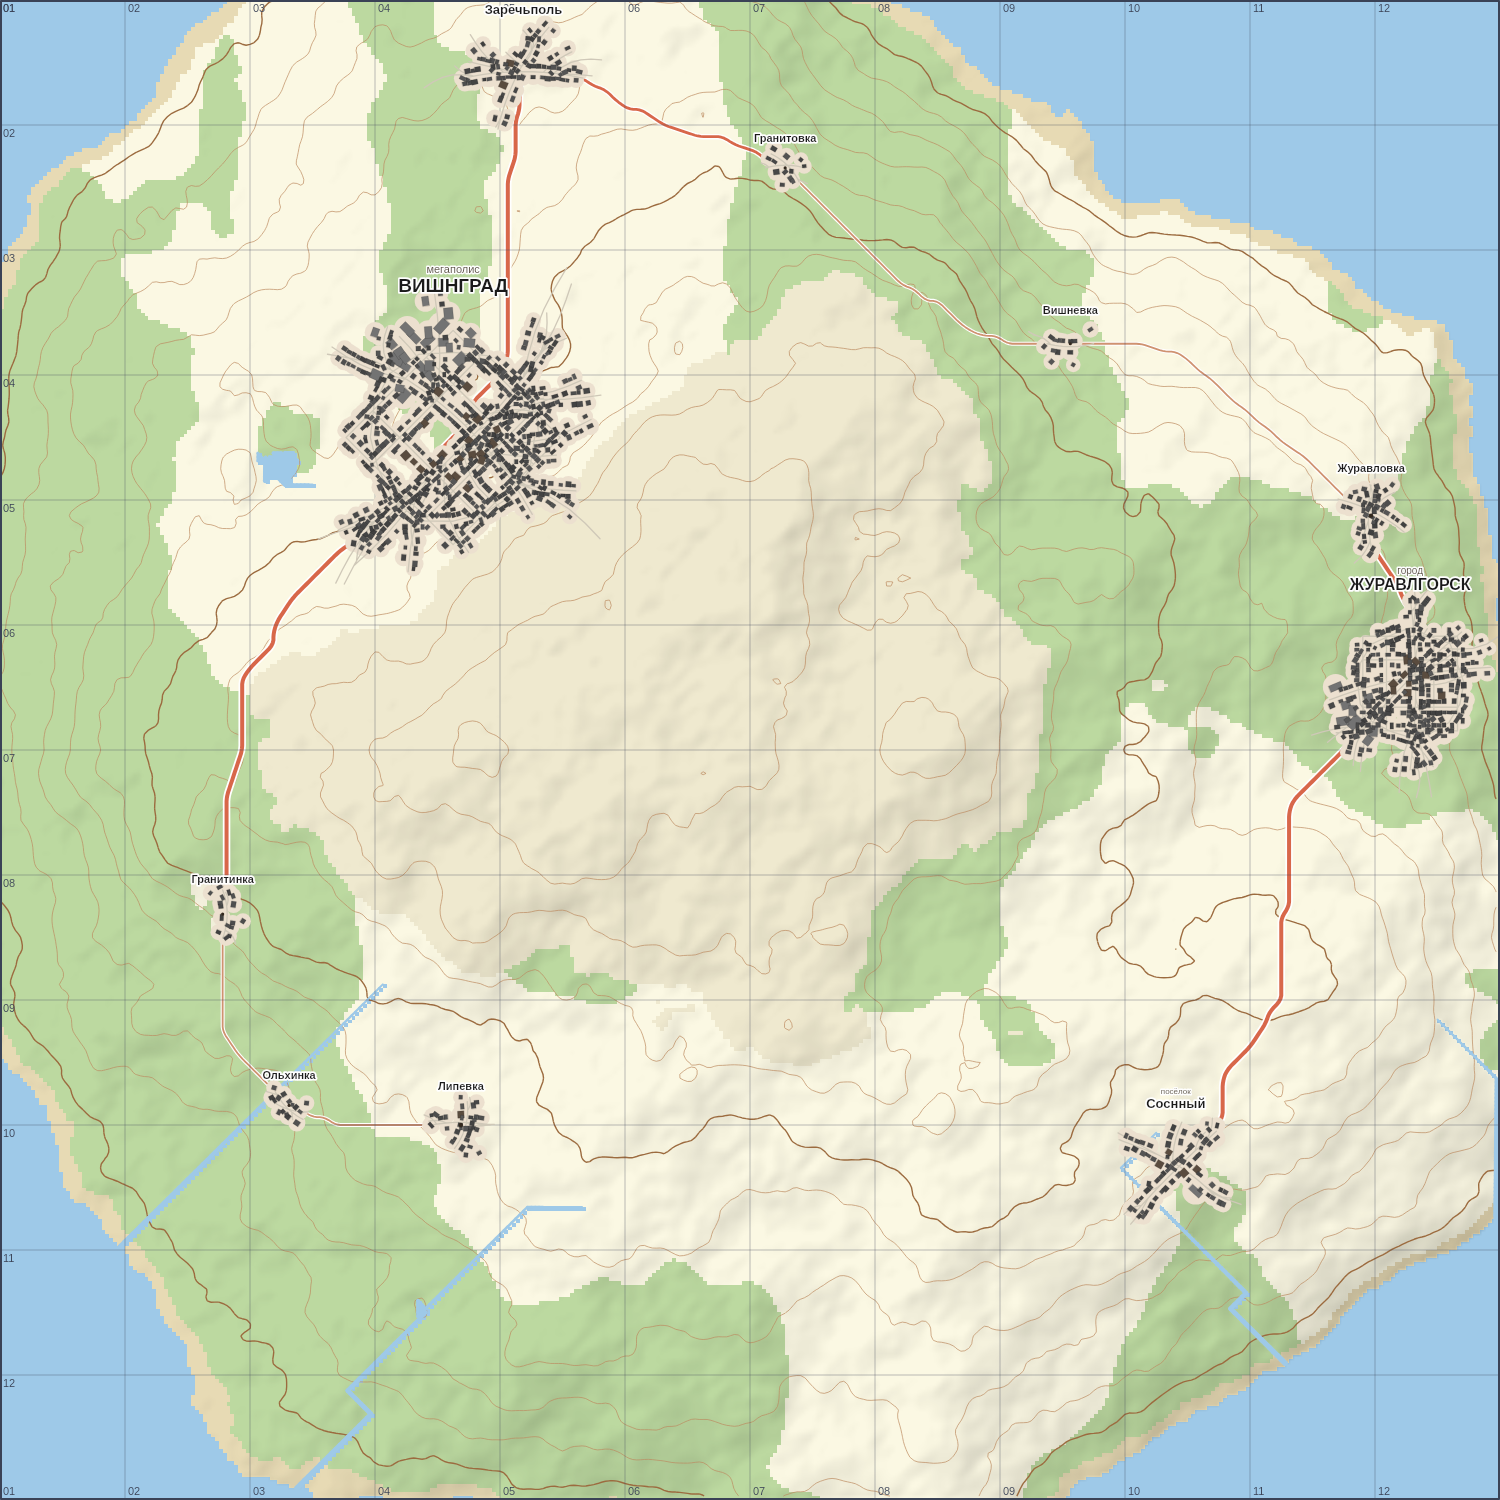
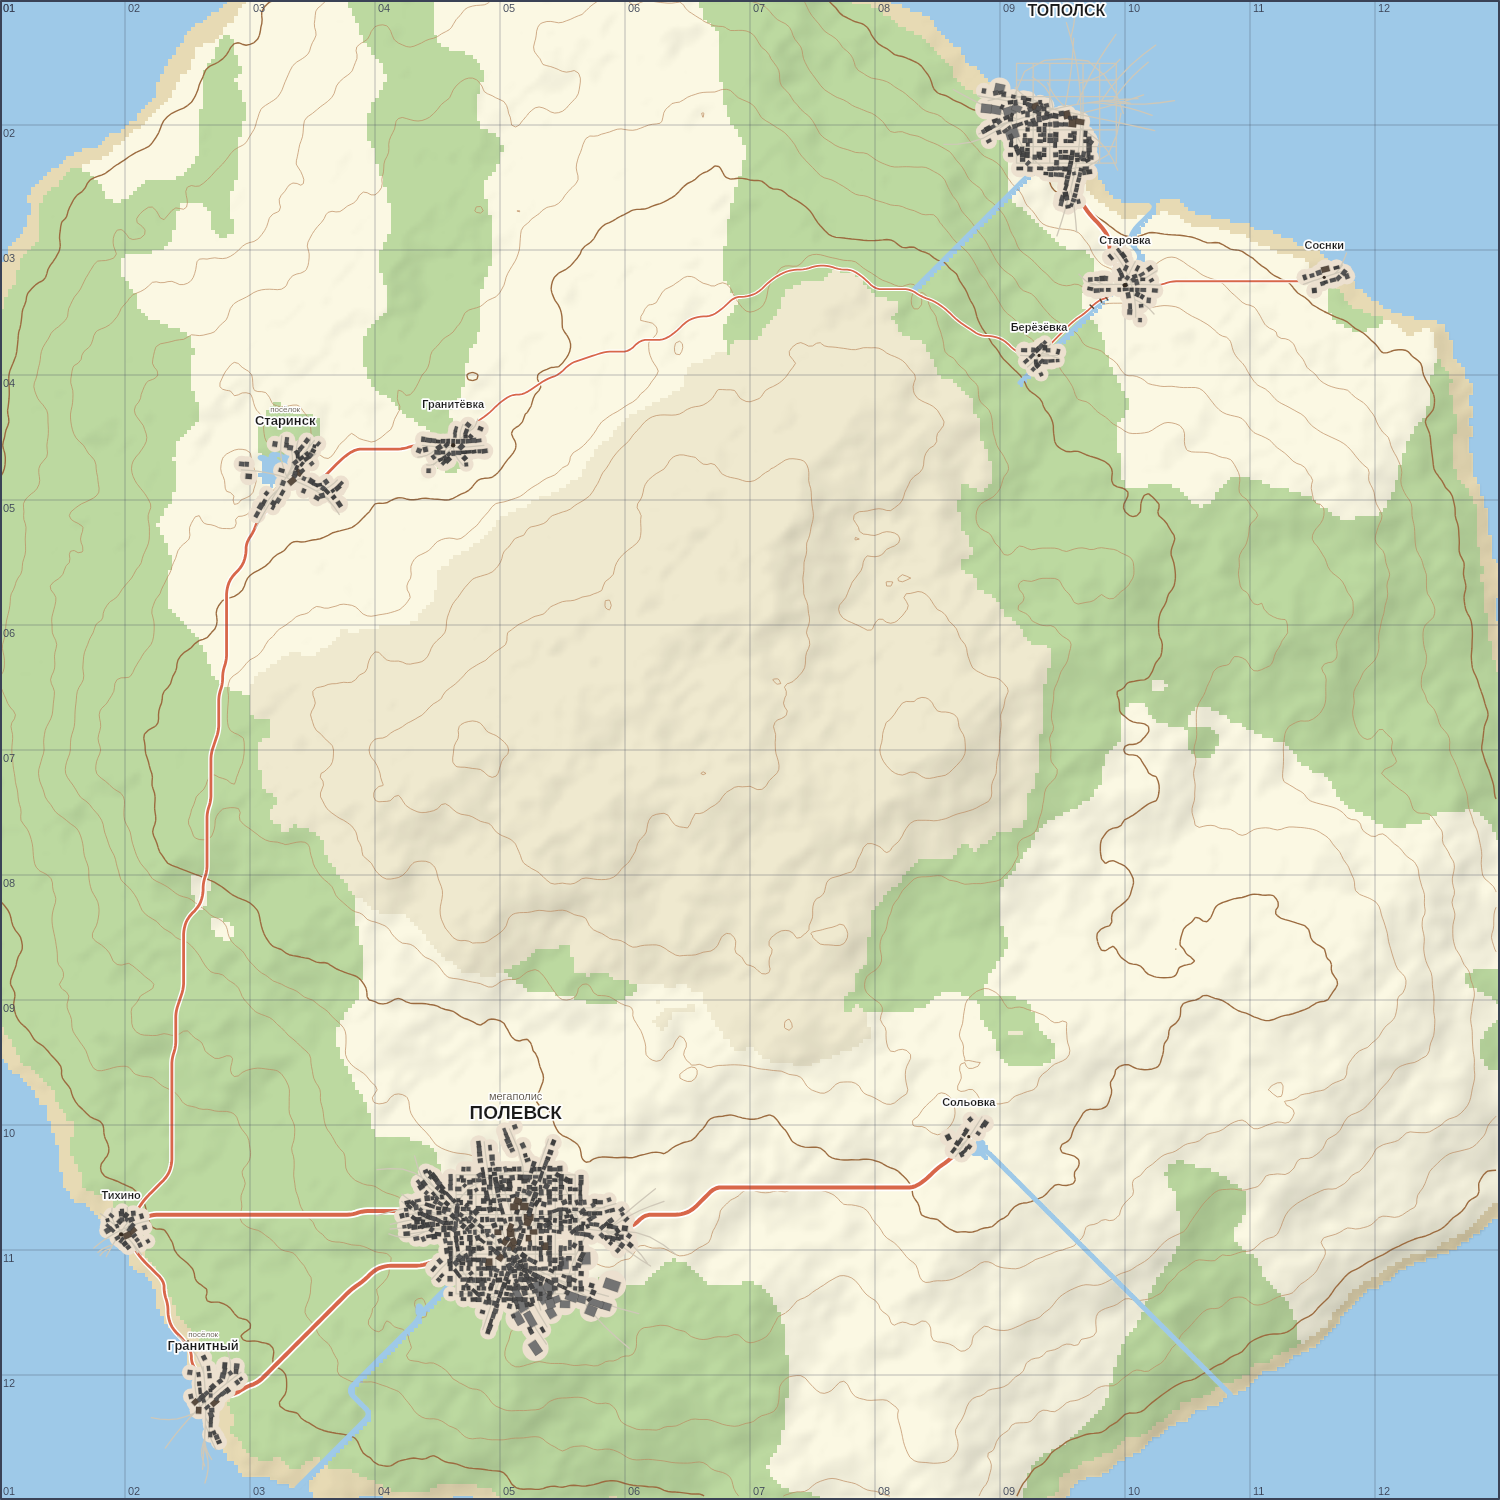
Реализм карты: естественные реки, дороги ≠ горизонтали, иерархия расселения
По замечаниям к виду «как настоящая карта»:

Реки:
- русла сглаживаются (плавные изгибы вместо рваной ломаной и резких углов);
- река всегда заканчивается в воде: впадает в море/другую реку (приток) либо
  образует в конце небольшое озеро — больше не обрывается посреди суши;
- рисуется одной плавной линией нужной ширины — без «стрелок» на стыках;
- исток только на возвышенностях, русло прорезается непрерывным каналом.

Дороги:
- все классы рисуются единым «дорожным» красным цветом (различие — по ширине),
  чтобы местные дороги не путались с коричневыми горизонталями.

Расселение:
- пункты размещаются от крупных к мелким с интервалом, пропорциональным их
  размеру: мегаполисы и города больше не сливаются в одно пятно, а сёла и
  деревни заполняют промежутки (естественная иерархия расселения).

Claude-Session: https://claude.ai/code/session_013g6C5sYmZd55dF6BbemY1p

diff --git a/js/generator.js b/js/generator.js
@@ -180,7 +180,6 @@ class MapGenerator {
 
     // 5) Населённые пункты и их виды (деревня…мегаполис)
     const towns = this._placeTowns(height, slope, type);
-    this._assignTiers(towns);
 
     // 6) Сеть дорог с учётом рельефа (поиск пути A* по «стоимости» местности)
     const cost = this._buildCostField(height, slope, type);
@@ -268,24 +267,38 @@ class MapGenerator {
     const size = this.size;
     const rivers = [];
     const target = Math.round(3 + size / 200); // примерное число рек
-    const maxTries = target * 60;
+    const maxTries = target * 80;
+    const stride = Math.max(2, Math.round(size / 140));
     let tries = 0;
     while (rivers.length < target && tries < maxTries) {
       tries++;
       const sx = Math.floor(this._rand() * size);
       const sy = Math.floor(this._rand() * size);
-      if (height[sy * size + sx] < 0.6) continue; // истоки — только высоко
-      const path = this._traceRiver(height, type, sx, sy);
-      if (path.length < Math.max(10, size * 0.06)) continue; // короткие отбрасываем
-      for (const [x, y] of path) {
-        type[y * size + x] = TERRAIN.WATER; // прорезаем русло
+      if (height[sy * size + sx] < 0.66) continue; // истоки — только на возвышенностях
+      const traced = this._traceRiver(height, type, sx, sy);
+      if (traced.path.length < Math.max(12, size * 0.07)) continue; // короткие отбрасываем
+
+      // Река должна заканчиваться в воде. Если стекла во впадину, а не в море —
+      // образуем там небольшое озеро, чтобы русло не обрывалось «в никуда».
+      if (!traced.reachedWater) {
+        this._makeLake(type, traced.path[traced.path.length - 1], size);
       }
+
+      // Сглаживаем русло: плавные изгибы вместо рваной ломаной (как у настоящих
+      // рек), и прорезаем непрерывный канал водой вдоль сглаженного пути.
+      const path = this._smoothPath(this._decimate(traced.path, stride));
+      this._carveAlong(type, path, size);
       rivers.push(path);
     }
     return rivers;
   }
 
-  /* Прослеживает одно русло «стеканием» вниз по склону из точки (x, y). */
+  /*
+   * Прослеживает одно русло «стеканием» вниз по склону из точки (x, y).
+   * Возвращает { path, reachedWater }: reachedWater = true, если река дошла до
+   * воды (моря, озера или другой реки — тогда получается приток), иначе она
+   * остановилась во впадине и в этом месте нужно образовать озеро.
+   */
   _traceRiver(height, type, x, y) {
     const size = this.size;
     const path = [[x, y]];
@@ -294,10 +307,11 @@ class MapGenerator {
     let py = y;
     let dirx = 0;
     let diry = 0;
-    const maxLen = Math.floor(size * 1.5);
+    let reachedWater = false;
+    const maxLen = Math.floor(size * 1.6);
     for (let step = 0; step < maxLen; step++) {
-      if (step > 0 && type[py * size + px] === TERRAIN.WATER) break; // впали в воду
-      if (height[py * size + px] < this.seaLevel) break;
+      if (step > 0 && type[py * size + px] === TERRAIN.WATER) { reachedWater = true; break; }
+      if (height[py * size + px] < this.seaLevel) { reachedWater = true; break; }
 
       // Ищем самого «низкого» соседа; небольшая инерция держит русло прямее.
       let bx = -1;
@@ -316,7 +330,7 @@ class MapGenerator {
         }
       }
       if (bx < 0) break; // тупик (всё вокруг уже посещено)
-      if (height[by * size + bx] > height[py * size + px] + 0.025) break; // впадина — конец реки
+      if (height[by * size + bx] > height[py * size + px] + 0.02) break; // впадина — конец
 
       dirx = Math.sign(bx - px);
       diry = Math.sign(by - py);
@@ -325,7 +339,54 @@ class MapGenerator {
       visited.add(py * size + px);
       path.push([px, py]);
     }
-    return path;
+    return { path, reachedWater };
+  }
+
+  /* Небольшое озеро в конце реки, если она не дошла до моря (сток во впадину). */
+  _makeLake(type, end, size) {
+    const ex = end[0];
+    const ey = end[1];
+    const r = 2 + Math.floor(this._rand() * 2); // радиус 2..3 клетки
+    for (let dy = -r; dy <= r; dy++) {
+      for (let dx = -r; dx <= r; dx++) {
+        if (dx * dx + dy * dy > r * r) continue;
+        const nx = ex + dx;
+        const ny = ey + dy;
+        if (nx < 0 || ny < 0 || nx >= size || ny >= size) continue;
+        type[ny * size + nx] = TERRAIN.WATER;
+      }
+    }
+  }
+
+  /* Прорезает непрерывный канал воды вдоль (сглаженного) пути реки. */
+  _carveAlong(type, path, size) {
+    for (let i = 0; i < path.length - 1; i++) {
+      this._lineCells(
+        type,
+        Math.round(path[i][0]), Math.round(path[i][1]),
+        Math.round(path[i + 1][0]), Math.round(path[i + 1][1]),
+        size,
+      );
+    }
+  }
+
+  /* Отмечает водой клетки на отрезке (алгоритм Брезенхэма) — без разрывов. */
+  _lineCells(type, x0, y0, x1, y1, size) {
+    const dx = Math.abs(x1 - x0);
+    const dy = Math.abs(y1 - y0);
+    const sx = x0 < x1 ? 1 : -1;
+    const sy = y0 < y1 ? 1 : -1;
+    let err = dx - dy;
+    let x = x0;
+    let y = y0;
+    let guard = 0;
+    while (guard++ < 4 * size) {
+      if (x >= 0 && y >= 0 && x < size && y < size) type[y * size + x] = TERRAIN.WATER;
+      if (x === x1 && y === y1) break;
+      const e2 = 2 * err;
+      if (e2 > -dy) { err -= dy; x += sx; }
+      if (e2 < dx) { err += dx; y += sy; }
+    }
   }
 
   /*
@@ -574,41 +635,99 @@ class MapGenerator {
    */
   _placeTowns(height, slope, type) {
     const size = this.size;
-    const towns = [];
-    const minDist = size / (this.townCount + 1);
-    const minDist2 = minDist * minDist;
     const margin = Math.round(size * 0.045); // не селим у самой кромки карты
 
-    // Два прохода: сначала с порогом пригодности (отбираем хорошие места),
-    // затем, если не добрали, — без порога, лишь бы на суше и не вплотную.
-    for (const strict of [true, false]) {
-      let attempts = 0;
-      const maxAttempts = this.townCount * 300;
-      while (towns.length < this.townCount && attempts < maxAttempts) {
-        attempts++;
-        const x = Math.floor(this._rand() * size);
-        const y = Math.floor(this._rand() * size);
-        if (x < margin || y < margin || x >= size - margin || y >= size - margin) continue;
-        const i = y * size + x;
-        const t = type[i];
-        if (t === TERRAIN.WATER || t === TERRAIN.HILL) continue;
-        if (strict && slope[i] > 0.05) continue; // на круче не строим
+    // Сколько пунктов какого вида (пирамида: мало крупных, много мелких).
+    const counts = this._tierCounts(this.townCount);
 
-        let tooClose = false;
-        for (const tw of towns) {
-          const dx = tw.x - x;
-          const dy = tw.y - y;
-          if (dx * dx + dy * dy < minDist2) { tooClose = true; break; }
-        }
-        if (tooClose) continue;
-
-        const suit = this._suitability(height, slope, type, x, y);
-        if (strict && suit < 0.3) continue;
-
-        towns.push({ x, y, suit });
+    // Размещаем ОТ КРУПНЫХ К МЕЛКИМ: сначала города на лучших местах и с большим
+    // интервалом друг от друга (чтобы мегаполисы не сливались в одно пятно),
+    // затем сёла и деревни заполняют промежутки. Это и даёт «иерархию» расселения.
+    const towns = [];
+    for (let tier = SETTLEMENT_TIERS.length - 1; tier >= 0; tier--) {
+      const tierRadius = SETTLEMENT_TIERS[tier].radiusFrac * size;
+      for (let k = 0; k < counts[tier]; k++) {
+        const town = this._placeOne(height, slope, type, towns, tier, tierRadius, margin);
+        if (town) towns.push(town);
       }
     }
     return towns;
+  }
+
+  /* Раскладка числа пунктов по видам (деревня…мегаполис), сумма = N. */
+  _tierCounts(N) {
+    const c = [0, 0, 0, 0, 0];
+    if (N <= 0) return c;
+    if (N === 1) { c[2] = 1; return c; }          // один пункт — пусть будет посёлок
+    if (N === 2) { c[1] = 1; c[2] = 1; return c; } // село + посёлок
+    let rem = N;
+    const take = (amt) => { amt = Math.max(0, Math.min(rem, amt)); rem -= amt; return amt; };
+    c[4] = take(N >= 8 ? 1 : 0);                    // мегаполис — только на крупных картах
+    c[3] = take(Math.max(1, Math.round(N * 0.13))); // города
+    c[2] = take(Math.max(1, Math.round(N * 0.20))); // посёлки
+    c[1] = take(Math.round(N * 0.34));              // сёла
+    c[0] = take(rem);                               // деревни — всё остальное
+    return c;
+  }
+
+  /*
+   * Подбирает место для одного пункта заданного вида: из множества случайных
+   * кандидатов берём самый пригодный (ровно, у воды, не на круче), соблюдая
+   * интервал до уже размещённых — тем больший, чем крупнее оба пункта.
+   * Если подходящего места нет — мягкий запасной проход (лишь бы на суше).
+   */
+  _placeOne(height, slope, type, existing, tier, tierRadius, margin) {
+    const size = this.size;
+    const span = size - 2 * margin;
+    const def = SETTLEMENT_TIERS[tier];
+
+    const spaced = (x, y, factor) => {
+      for (const tw of existing) {
+        const need = (tierRadius + tw._radiusCells) * factor + size * 0.02;
+        const dx = tw.x - x;
+        const dy = tw.y - y;
+        if (dx * dx + dy * dy < need * need) return false;
+      }
+      return true;
+    };
+
+    let best = null;
+    let bestScore = -Infinity;
+    const samples = 60 + tier * 45; // для крупных перебираем больше вариантов
+    for (let s = 0; s < samples; s++) {
+      const x = margin + Math.floor(this._rand() * span);
+      const y = margin + Math.floor(this._rand() * span);
+      const i = y * size + x;
+      const t = type[i];
+      if (t === TERRAIN.WATER || t === TERRAIN.HILL) continue;
+      if (slope[i] > 0.05) continue;
+      if (!spaced(x, y, 1.25)) continue;
+      const suit = this._suitability(height, slope, type, x, y);
+      if (suit > bestScore) { bestScore = suit; best = { x, y }; }
+    }
+
+    // Запасные проходы со всё более мягкими требованиями.
+    if (!best) {
+      for (let s = 0; s < 250 && !best; s++) {
+        const x = margin + Math.floor(this._rand() * span);
+        const y = margin + Math.floor(this._rand() * span);
+        const t = type[y * size + x];
+        if (t === TERRAIN.WATER || t === TERRAIN.HILL) continue;
+        if (!spaced(x, y, 0.85)) continue;
+        best = { x, y };
+      }
+    }
+    if (!best) return null;
+
+    best.tier = tier;
+    best.kind = def.key;
+    best.kindLabel = def.label;
+    best._radiusCells = tierRadius;
+    best.radius = Math.max(4, tierRadius * (0.85 + this._rand() * 0.3));
+    best.size = 0.4 + tier * 0.18; // обратная совместимость со старым полем
+    best.suit = bestScore;
+    best.name = this._settlementName(tier, existing.length);
+    return best;
   }
 
   /*
@@ -643,42 +762,6 @@ class MapGenerator {
     const central = Math.max(0, 1 - Math.hypot(cxn, cyn) * 1.6);
 
     return flat * 0.45 + water * 0.25 + low * 0.15 + central * 0.15;
-  }
-
-  /*
-   * Назначает каждому пункту «вид» (деревня…мегаполис) по правилу «ранг-размер»:
-   * лучших мест мало, и они становятся крупными городами; большинство — сёла и
-   * деревни. Заодно выдаём название, охват (radius) и совместимое поле size.
-   */
-  _assignTiers(towns) {
-    const N = towns.length;
-    // Лучшие по пригодности места — в начало (станут крупными пунктами).
-    const order = towns.map((_, idx) => idx).sort((a, b) => towns[b].suit - towns[a].suit);
-
-    for (let rank = 0; rank < N; rank++) {
-      const t = towns[order[rank]];
-      const frac = N > 1 ? rank / (N - 1) : 0;
-
-      let tier;
-      if (rank === 0 && N >= 7) tier = 4;       // единственный мегаполис на большой карте
-      else if (frac < 0.15) tier = 3;           // города
-      else if (frac < 0.40) tier = 2;           // посёлки
-      else if (frac < 0.72) tier = 1;           // сёла
-      else tier = 0;                            // деревни
-
-      // Небольшая случайная вариация ±1 уровень — для разнообразия.
-      const r = this._rand();
-      if (r < 0.12 && tier < 4) tier++;
-      else if (r > 0.90 && tier > 0) tier--;
-
-      const def = SETTLEMENT_TIERS[tier];
-      t.tier = tier;
-      t.kind = def.key;
-      t.kindLabel = def.label;
-      t.radius = Math.max(4, def.radiusFrac * this.size * (0.85 + this._rand() * 0.3));
-      t.size = 0.4 + tier * 0.18; // обратная совместимость со старым полем
-      t.name = this._settlementName(tier, rank);
-    }
   }
 
   /*

diff --git a/js/renderer.js b/js/renderer.js
@@ -24,8 +24,7 @@ const COLORS = {
   [TERRAIN.HILL]: "#efe9cf",
   CONTOUR: "#bb8a5e",        // тонкие горизонтали (коричневые)
   CONTOUR_INDEX: "#9c6b3f",  // утолщённые (каждая пятая)
-  ROAD: "#d8674a",           // магистрали и обычные дороги
-  ROAD_MINOR: "#cf9270",     // местные дороги (светлее и тоньше)
+  ROAD: "#d8674a",           // дороги всех классов (различаются шириной)
   ROAD_CASING: "#ffffff",    // светлая обводка дорог
   BRIDGE: "#5a4632",         // перильца мостов
   GRID: "rgba(60, 70, 90, 0.35)",
@@ -267,15 +266,22 @@ class MapRenderer {
     ctx.lineJoin = "round";
     for (const river of map.rivers) {
       if (river.length < 2) continue;
+
+      // «Полноводность» реки определяем по её длине: крупная река чуть шире.
+      let spatial = 0;
       for (let i = 0; i < river.length - 1; i++) {
-        // ширина растёт от истока к устью
-        const t = i / (river.length - 1);
-        ctx.lineWidth = Math.max(1, s * (0.5 + t * 0.9));
-        ctx.beginPath();
-        ctx.moveTo(river[i][0] * s, river[i][1] * s);
-        ctx.lineTo(river[i + 1][0] * s, river[i + 1][1] * s);
-        ctx.stroke();
+        spatial += Math.hypot(river[i + 1][0] - river[i][0], river[i + 1][1] - river[i][1]);
       }
+      const sizeFactor = Math.min(1, spatial / (map.size * 0.45));
+
+      // Рисуем русло ОДНОЙ плавной линией (а не по сегментам) — без «стрелок» на
+      // стыках. Ширина не меньше клетки, чтобы перекрыть прорезанный канал и
+      // убрать «лесенку», и плавно растёт к крупным рекам.
+      ctx.lineWidth = Math.max(1.4, s * (0.85 + sizeFactor * 0.7));
+      ctx.beginPath();
+      ctx.moveTo(river[0][0] * s, river[0][1] * s);
+      for (let i = 1; i < river.length; i++) ctx.lineTo(river[i][0] * s, river[i][1] * s);
+      ctx.stroke();
     }
   }
 
@@ -307,10 +313,11 @@ class MapRenderer {
       ctx.lineWidth = dims(road.klass).cas;
       this._strokePath(road.path, s);
     }
-    // полотно
+    // полотно: все дороги одного «дорожного» цвета (красного), чтобы их нельзя
+    // было спутать с коричневыми горизонталями; класс различается шириной.
     for (const road of sorted) {
       if (!road.path || road.path.length < 2) continue;
-      ctx.strokeStyle = road.klass === "local" ? COLORS.ROAD_MINOR : COLORS.ROAD;
+      ctx.strokeStyle = COLORS.ROAD;
       ctx.lineWidth = dims(road.klass).road;
       this._strokePath(road.path, s);
     }